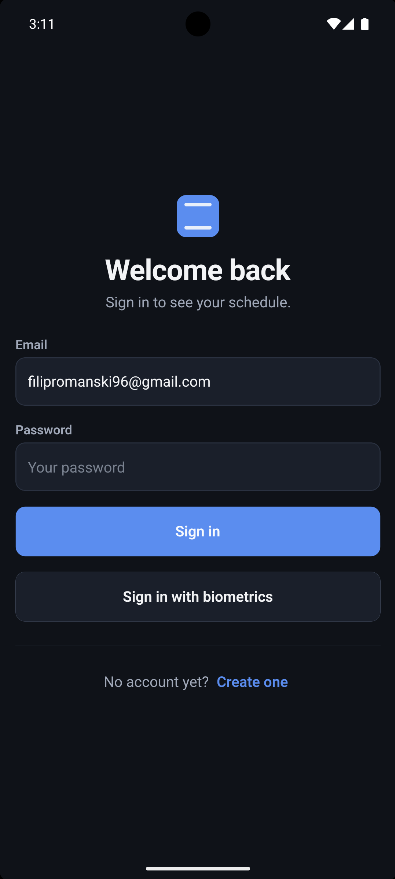
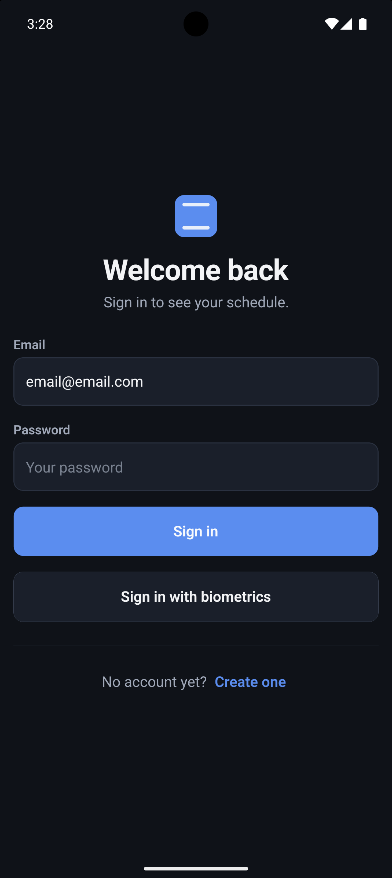
minor tweaks

diff --git a/README.md b/README.md
@@ -6,22 +6,90 @@ A calendar and meeting-management app for Android, built with plain React Native
 
 ## Screenshots
 
-<p>
-  <img src="docs/screenshots/calendar-page.png" alt="Calendar: month grid, agenda, overlapping events" width="280" />
-  <img src="docs/screenshots/white-mode.png" alt="Calendar in light appearance" width="280" />
-  <img src="docs/screenshots/profile-page.png" alt="Profile: identity, event count, biometric unlock" width="280" />
-</p>
-<p>
-  <img src="docs/screenshots/new-event-screen.png" alt="New event form" width="280" />
-  <img src="docs/screenshots/edit-event-screen.png" alt="Edit event form" width="280" />
-  <img src="docs/screenshots/turn-on-biometrics.png" alt="Enabling biometric unlock from Profile" width="280" />
-</p>
-<p>
-  <img src="docs/screenshots/login-page.png" alt="Sign in" width="280" />
-  <img src="docs/screenshots/create-account-page.png" alt="Create account" width="280" />
-  <img src="docs/screenshots/login-page-biometrics-login.png" alt="Sign in with biometrics available" width="280" />
-  <img src="docs/screenshots/biometrics-login-success.png" alt="System biometric prompt" width="280" />
-</p>
+### Calendar
+
+Month grid, selected-day agenda, event-count dots, and overlap badges. Appearance follows the header sun/moon control.
+
+<table>
+  <tr>
+    <td align="center" valign="top" width="50%">
+      <p><strong>Dark</strong></p>
+      <img src="docs/screenshots/calendar-page.png" alt="Calendar in dark appearance: August 2026 grid and two conflicted events on the 17th" width="280" />
+    </td>
+    <td align="center" valign="top" width="50%">
+      <p><strong>Light</strong></p>
+      <img src="docs/screenshots/white-mode.png" alt="Calendar in light appearance" width="280" />
+    </td>
+  </tr>
+</table>
+
+### Events
+
+One form for create and edit: title, notes, start and end on the civil day.
+
+<table>
+  <tr>
+    <td align="center" valign="top" width="50%">
+      <p><strong>New event</strong></p>
+      <img src="docs/screenshots/new-event-screen.png" alt="New event form" width="280" />
+    </td>
+    <td align="center" valign="top" width="50%">
+      <p><strong>Edit event</strong></p>
+      <img src="docs/screenshots/edit-event-screen.png" alt="Edit event form" width="280" />
+    </td>
+  </tr>
+</table>
+
+### Profile
+
+Identity, scheduled-event count, and the on-device biometric gate.
+
+<table>
+  <tr>
+    <td align="center" valign="top" width="50%">
+      <p><strong>Account</strong></p>
+      <img src="docs/screenshots/profile-page.png" alt="Profile: name, email, event count, biometric status off" width="280" />
+    </td>
+    <td align="center" valign="top" width="50%">
+      <p><strong>Enable biometrics</strong></p>
+      <img src="docs/screenshots/turn-on-biometrics.png" alt="System prompt when turning on biometric unlock from Profile" width="280" />
+    </td>
+  </tr>
+</table>
+
+### Sign in
+
+Email/password on a fresh install; Create account is the adjacent stack screen.
+
+<table>
+  <tr>
+    <td align="center" valign="top" width="50%">
+      <p><strong>Sign in</strong></p>
+      <img src="docs/screenshots/login-page.png" alt="Sign in with email and password" width="280" />
+    </td>
+    <td align="center" valign="top" width="50%">
+      <p><strong>Create account</strong></p>
+      <img src="docs/screenshots/create-account-page.png" alt="Create account: name, email, password" width="280" />
+    </td>
+  </tr>
+</table>
+
+### Biometric unlock
+
+After the gate is on, a restored session lands on Sign in with a biometric control. The system prompt unlocks the existing Firebase session.
+
+<table>
+  <tr>
+    <td align="center" valign="top" width="50%">
+      <p><strong>Locked session</strong></p>
+      <img src="docs/screenshots/login-page-biometrics-login.png" alt="Sign in with Sign in with biometrics available" width="280" />
+    </td>
+    <td align="center" valign="top" width="50%">
+      <p><strong>System prompt</strong></p>
+      <img src="docs/screenshots/biometrics-login-success.png" alt="Fingerprint prompt: Unlock CalendarApp" width="280" />
+    </td>
+  </tr>
+</table>
 
 ## Contents
 
